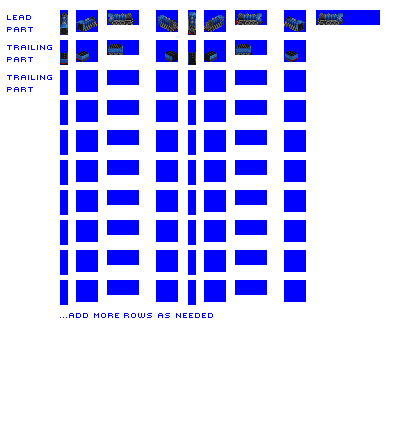
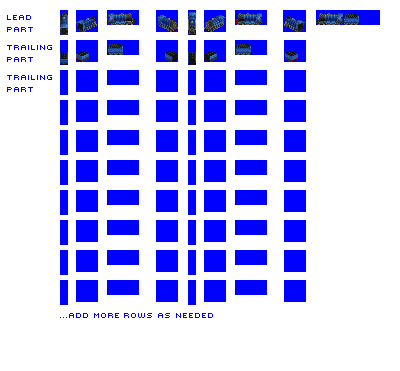
Change: adjust graphics and stats for High Flyer (closes #6499)

diff --git a/src/vehicles/high_flyer.py b/src/vehicles/high_flyer.py
@@ -6,8 +6,8 @@ consist = EngineConsist(id = 'high_flyer',
               title = 'High Flyer [Steam]',
               str_type_info = 'COASTER',
               replacement_id = '-none',
-              power = 1550,
-              tractive_effort_coefficient = 0.18,
+              power = 1300,
+              tractive_effort_coefficient = 0.10,
               speed = 80,
               buy_cost = 22,
               fixed_run_cost_factor = 3.5,
@@ -17,7 +17,7 @@ consist = EngineConsist(id = 'high_flyer',
               graphics_status = '')
               
 consist.add_unit(SteamLoco(consist = consist,
-                        weight = 96,
+                        weight = 90,
                         vehicle_length = 7,
                         spriterow_num = 0))              
 
